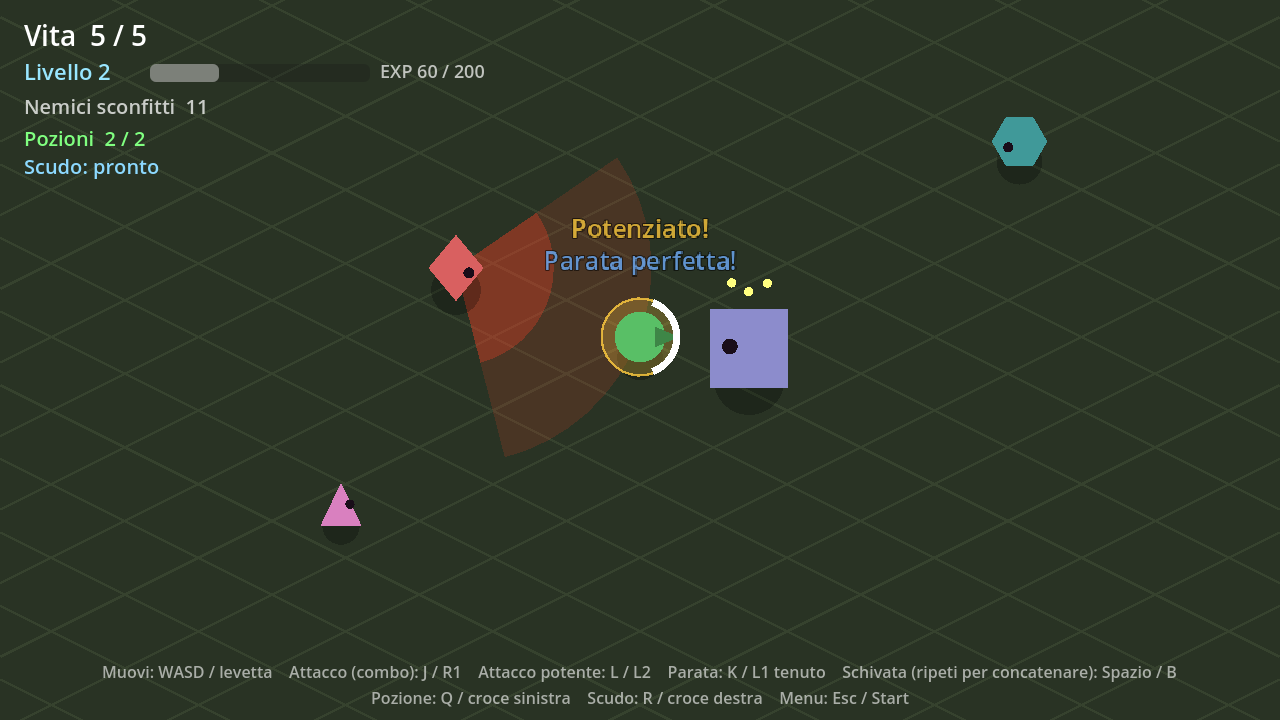
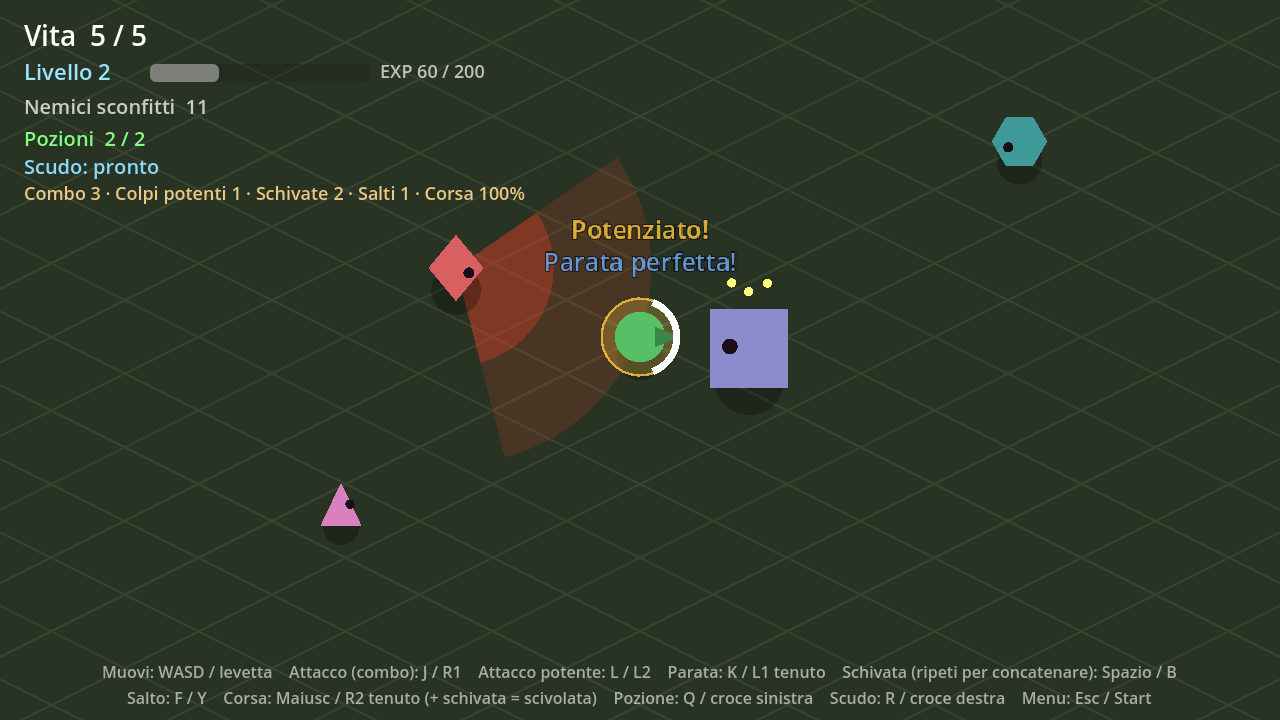
Salto, corsa e scivolata, abilità nell'HUD, menù con croce e frecce
- Salto (Y / F): altezza visiva con ombra a terra, in aria i colpi dei
  nemici non arrivano; un salto all'inizio, potenziamento per salti
  consecutivi in aria; salti e schivate si combinano (schivata in aria
  con caduta rallentata, salto durante la schivata)
- Corsa tenendo R2 / Maiusc (+60%), potenziamento +2% di velocità
- Schivata durante la corsa = scivolata; durante la scivolata si può
  attaccare (la combo continua, con lo slancio), schivare, saltare o
  parare, interrompendola
- HUD: riga con i livelli delle abilità (combo, colpi potenti,
  schivate, salti, corsa)
- Pannello di livello con 8 scelte su due colonne
- Menù: tolto il focus che seguiva il mouse (all'apertura spostava la
  selezione da Inizia al pulsante sotto il puntatore); UiNav accetta
  croce e frecce lette direttamente e gestisce anche destra/sinistra;
  il menù mostra l'ultimo comando ricevuto
- Testi IT/EN, README, GDD, pagina itch.io e screenshot aggiornati

Claude-Session: https://claude.ai/code/session_01RZiywFjVqLoW3b1UN9Ro6e

Changed region(s): [[0.0938, 0.9472, 0.9062, 0.9778], [0.4375, 0.3056, 0.5625, 0.3972], [0.0312, 0.2444, 0.4062, 0.275]]

diff --git a/store/itch/README.md b/store/itch/README.md
@@ -69,10 +69,12 @@ IN THIS PROTOTYPE
 - Real-time combat: chain up to 3 attacks in a combo, each hit stronger than the last, and finish it with a power strike for a big bonus
 - Parry, and time it right before the hit for a perfect parry: the enemy is stunned and your attacks are empowered for a few seconds (double damage, faster swings)
 - Dodge, and press again mid-dodge to chain another one in a new direction. Dodge and parry are always available and cancel your combo; attacking cancels a dodge into an immediate strike
+- Jump over enemy attacks (unlock multiple jumps in mid-air) and combine jumps with dodges
+- Hold R2 to run; dodge while running to slide, and attack, dodge, jump or parry out of the slide
 - Healing potions (you start with 2) and a magic shield that absorbs one hit, recharging in 30 seconds
 - Four kinds of enemies: quick scouts, warriors, heavy brutes and summoners that call in reinforcements (hit them while they summon to interrupt them)
 - Enemies circle around you with quick sidesteps; their attacks are slow but unpredictable: watch the red area on the ground, beware of feints and follow-up strikes
-- Earn experience to level up: every level raises your base damage and lets you choose an upgrade: one more combo hit, one more chained power strike, one more chained dodge, one more health point, one more potion or a faster shield recharge
+- Earn experience to level up: every level raises your base damage and lets you choose an upgrade: one more combo hit, one more chained power strike, one more chained dodge, one more jump, one more health point, one more potion, a faster shield recharge or a faster run. Your skill levels are always shown on screen
 
 CONTROLS
 - Move: left stick / WASD / on-screen stick
@@ -80,6 +82,8 @@ CONTROLS
 - Power strike (ends the combo): L2 / L
 - Parry (hold): L1 / K
 - Dodge (press again to chain): B / Space
+- Jump: Y / F
+- Run (hold; dodge while running = slide): R2 / Shift
 - Potion: D-pad left / Q
 - Shield: D-pad right / R
 - Menu: Start / Esc
@@ -104,10 +108,12 @@ IN QUESTO PROTOTIPO
 - Combattimento in tempo reale: concatena fino a 3 attacchi in combo, ogni colpo più forte del precedente, e chiudila con un colpo potente per un grosso bonus
 - Para, e fallo appena prima del colpo per una parata perfetta: il nemico resta stordito e i tuoi attacchi sono potenziati per qualche secondo (doppio danno, colpi più rapidi)
 - Schiva, e premi di nuovo durante la schivata per concatenarne un'altra in una nuova direzione. Schivata e parata sono sempre disponibili e interrompono la combo; attaccare interrompe la schivata con un colpo immediato
+- Salta per evitare gli attacchi dei nemici (sblocca più salti in aria) e combina salti e schivate
+- Tieni premuto R2 per correre; schiva mentre corri per una scivolata, da cui puoi attaccare, schivare, saltare o parare
 - Pozioni curative (ne hai 2 all'inizio) e uno scudo magico che assorbe un colpo e si ricarica in 30 secondi
 - Quattro tipi di nemici: esploratori rapidi, guerrieri, bruti corazzati ed evocatori che chiamano rinforzi (colpiscili mentre evocano per interromperli)
 - I nemici ti girano attorno con scatti laterali; i loro attacchi sono lenti ma imprevedibili: guarda la zona rossa a terra, attento alle finte e ai secondi colpi
-- Guadagna esperienza per salire di livello: ogni livello aumenta i danni base e ti fa scegliere un potenziamento: un colpo in più nella combo, un colpo potente concatenato in più, una schivata concatenata in più, un punto vita in più, una pozione in più o una ricarica più rapida dello scudo
+- Guadagna esperienza per salire di livello: ogni livello aumenta i danni base e ti fa scegliere un potenziamento: un colpo in più nella combo, un colpo potente concatenato in più, una schivata concatenata in più, un salto in più, un punto vita in più, una pozione in più, una ricarica più rapida dello scudo o una corsa più veloce. I livelli delle abilità sono sempre visibili a schermo
 
 COMANDI
 - Movimento: levetta sinistra / WASD / levetta a schermo
@@ -115,6 +121,8 @@ COMANDI
 - Colpo potente (chiude la combo): L2 / L
 - Parata (tieni premuto): L1 / K
 - Schivata (premi di nuovo per concatenare): B / Spazio
+- Salto: Y / F
+- Corsa (tieni premuto; schivata mentre corri = scivolata): R2 / Maiusc
 - Pozione: croce sinistra / Q
 - Scudo: croce destra / R
 - Menù: Start / Esc

diff --git a/README.md b/README.md
@@ -65,6 +65,8 @@ All'avvio c'è un menù (Inizia / Esci / lingua). Il livello di test è un piano
 | Colpo potente (chiude la combo) | L | L2 | pulsante "Potente" |
 | Parata (tieni premuto) | K | L1 | pulsante "Parata" |
 | Schivata (ripeti per concatenare) | Spazio | B | pulsante "Schivata" |
+| Salto | F | Y | pulsante "Salto" |
+| Corsa (tieni premuto) | Maiusc | R2 | pulsante "Corsa" |
 | Pozione | Q | croce sinistra | pulsante "Pozione" |
 | Scudo | R | croce destra | pulsante "Scudo" |
 | Torna al menù | Esc | Start | pulsante "Menu" |
@@ -72,17 +74,19 @@ All'avvio c'è un menù (Inizia / Esci / lingua). Il livello di test è un piano
 - **Movimento**: accelerazione e frenata, con interpolazione fisica per restare fluido anche su schermi a 90/120 Hz.
 - **Combo**: attacchi ravvicinati formano una combo (3 colpi all'inizio); ogni colpo fa il 50% in più del precedente. Le pressioni in più a combo finita vengono ignorate.
 - **Colpo potente**: più lento e ampio, 2,5 volte i danni base; in fondo a una combo prende anche il bonus dei colpi già fatti. Chiude la combo, a meno di aver sbloccato altri colpi potenti concatenati (ognuno +50% del precedente).
+- **Salto**: l'altezza è solo visiva, ma in aria gli attacchi dei nemici passano sotto. Un salto all'inizio, i potenziamenti ne aggiungono altri in aria. Salti e schivate si combinano (schivata in aria, salto durante la schivata).
+- **Corsa e scivolata**: tenendo premuto R2 si corre (+60%); schivando mentre si corre si fa una scivolata, durante la quale si può attaccare continuando la combo (con lo slancio della scivolata), schivare, saltare o parare.
 - **Pozioni**: curano 3 punti vita; se ne hanno 2 all'inizio.
 - **Scudo**: assorbe un colpo da qualsiasi direzione; ricarica di 30 secondi dall'attivazione.
 - **Parata**: blocca i colpi frontali; una parata perfetta, iniziata appena prima del colpo, stordisce il nemico e per 4 secondi raddoppia i danni e velocizza gli attacchi.
 - **Interruzioni**: schivata e parata si possono usare in qualsiasi momento, anche durante una combo, che si interrompe; attaccare durante una schivata la interrompe e attacca subito.
 - **Schivata**: invulnerabilità per un istante; premendo di nuovo durante la schivata (o subito dopo) se ne concatena un'altra (2 all'inizio). All'inizio di ogni schivata la direzione segue ancora la levetta, così cambiare direzione è facile.
-- **Esperienza e livelli**: ogni nemico sconfitto dà esperienza; servono 100 punti per il livello 2, 200 per il 3 e così via. Ogni livello aumenta i danni base e fa scegliere un potenziamento: +1 colpo nella combo, +1 colpo potente concatenato, +1 schivata concatenata, +1 punto vita, +1 pozione o ricarica dello scudo -2%.
+- **Esperienza e livelli**: ogni nemico sconfitto dà esperienza; servono 100 punti per il livello 2, 200 per il 3 e così via. Ogni livello aumenta i danni base e fa scegliere un potenziamento: +1 colpo nella combo, +1 colpo potente concatenato, +1 schivata concatenata, +1 salto, +1 punto vita, +1 pozione, ricarica dello scudo -2% o velocità di corsa +2%. I livelli delle abilità sono mostrati nell'HUD.
 - **Nemici** (`data/enemies.json`): esploratori rapidi, guerrieri, bruti lenti e resistenti che fanno 2 danni, evocatori che restano a distanza ed evocano esploratori (colpirli mentre evocano li interrompe). Girano attorno al giocatore con scatti laterali; l'attacco è annunciato dalla zona rossa a terra, con durata variabile, finte e secondi attacchi. Salendo di livello compaiono più spesso i nemici forti.
 
 ## Steam Deck
 
-Per usare i comandi integrati come controller conviene aggiungere il gioco a Steam come gioco non Steam e avviarlo da lì, anche in modalità Desktop. Avviato fuori da Steam, in modalità Desktop Steam trasforma i comandi in tastiera e mouse: i menù accettano comunque frecce, WASD, Invio/Spazio e J, e in basso a sinistra mostrano quale controller vede il gioco.
+Per usare i comandi integrati come controller conviene aggiungere il gioco a Steam come gioco non Steam e avviarlo da lì, anche in modalità Desktop. Avviato fuori da Steam, in modalità Desktop Steam trasforma i comandi in tastiera e mouse: i menù accettano comunque croce, frecce, WASD, Invio/Spazio e J, e in basso a sinistra mostrano quale controller vede il gioco e l'ultimo comando ricevuto.
 
 ## Lingue
 

diff --git a/docs/GDD.md b/docs/GDD.md
@@ -29,8 +29,8 @@ Documento vivo: da compilare e aggiornare. Le sezioni vuote sono da definire.
 Cosa fa il giocatore minuto per minuto, ora per ora:
 
 - **Esplorazione**: partire dai dintorni della tana, poi scoprire il mondo e le città
-- **Combattimento**: in tempo reale. Nel prototipo: combo di attacchi sempre più forti (3 colpi all'inizio) chiusa da un colpo potente, parata tenendo premuto, schivate concatenate con cambio di direzione (schivata e parata interrompono la combo in qualsiasi momento, attaccare interrompe la schivata), pozioni curative e scudo che assorbe un colpo (ricarica 30 s). La parata perfetta stordisce il nemico e potenzia per qualche secondo gli attacchi (più forti e più rapidi). Nemici di quattro tipi (esploratore, guerriero, bruto, evocatore che chiama rinforzi) con scatti laterali e attacchi lenti e annunciati, con tempi variabili, finte e secondi attacchi. Stamina e armi _da definire_
-- **Progressione**: diventare più forte, trovare nuove armi e nuovo equipaggiamento. Nel prototipo: esperienza dai nemici, livelli a 100 / 200 / 300... punti; ogni livello aumenta i danni base e fa scegliere un potenziamento (combo, colpi potenti concatenati, schivate concatenate, vita, pozioni, ricarica dello scudo)
+- **Combattimento**: in tempo reale. Nel prototipo: combo di attacchi sempre più forti (3 colpi all'inizio) chiusa da un colpo potente, parata tenendo premuto, schivate concatenate con cambio di direzione (schivata e parata interrompono la combo in qualsiasi momento, attaccare interrompe la schivata), salto (anche multiplo) combinabile con la schivata, corsa con scivolata, pozioni curative e scudo che assorbe un colpo (ricarica 30 s). La parata perfetta stordisce il nemico e potenzia per qualche secondo gli attacchi (più forti e più rapidi). Nemici di quattro tipi (esploratore, guerriero, bruto, evocatore che chiama rinforzi) con scatti laterali e attacchi lenti e annunciati, con tempi variabili, finte e secondi attacchi. Stamina e armi _da definire_
+- **Progressione**: diventare più forte, trovare nuove armi e nuovo equipaggiamento. Nel prototipo: esperienza dai nemici, livelli a 100 / 200 / 300... punti; ogni livello aumenta i danni base e fa scegliere un potenziamento (combo, colpi potenti concatenati, schivate concatenate, salti, vita, pozioni, ricarica dello scudo, velocità di corsa)
 - **Quest**: assegnate da personaggi incontrati lungo il cammino
 - **Looting**: sia drop dai nemici sia forzieri e oggetti fissi nel mondo. Tabelle di drop e rarità _da definire_
 - **Economia**: _da definire_
@@ -42,7 +42,7 @@ Priorità di design indicata: il cuore del gioco sono sistema di gioco, inventar
 | Sistema | Descrizione | Stato |
 |---|---|---|
 | Movimento | Isometrico, 8 direzioni; tastiera, gamepad e touch. Nel prototipo il movimento segue le direzioni dello schermo, con accelerazione e frenata | prototipo |
-| Combattimento | Tempo reale: combo (R1), colpo potente (L2), parata (L1), schivate concatenate (B), pozione (croce sinistra), scudo (croce destra); quattro tipi di nemici | prototipo |
+| Combattimento | Tempo reale: combo (R1), colpo potente (L2), parata (L1), schivate concatenate (B), salto (Y), corsa e scivolata (R2), pozione (croce sinistra), scudo (croce destra); quattro tipi di nemici | prototipo |
 | Progressione | Esperienza, livelli e potenziamenti a scelta | prototipo |
 | Inventario | A slot con limite di peso. Dettagli (numero slot, pesi, deposito nella tana) _da definire_ | da fare |
 | Dialoghi | _da definire_ | da fare |
